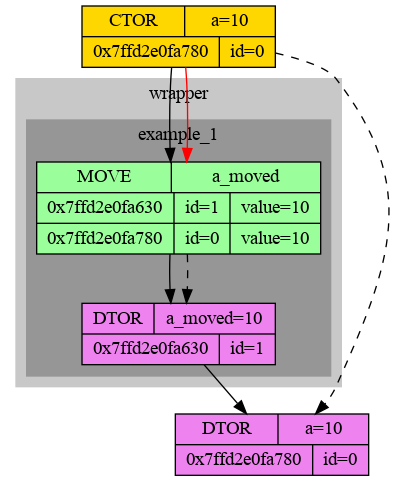
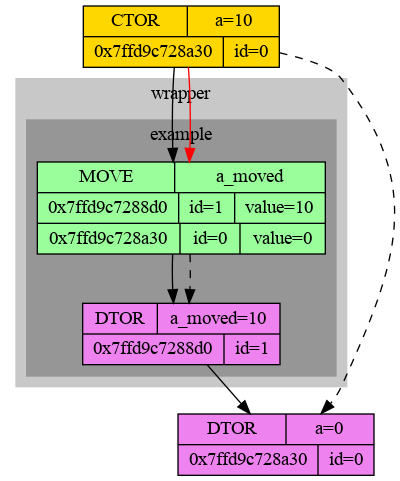
Fixed readme

diff --git a/Move&forward_research/dump.html b/Move&forward_research/dump.html
@@ -9,41 +9,27 @@ P {
 
 <p><font size="3" color="gold">[Calling_trace] CTOR Int::Int(int, std::string)
 </font>
-	<font size="3" color="gold">└──>[0x7ffdaa30fca0]: id = 0, a=10
+	<font size="3" color="gold">└──>[0x7ffd9c728a30]: id = 0, a=10
 </font>
 <font size="3" color="gold">
 </font>
-<font size="3" color="red">[Calling_trace] COPY Int::Int(const Int&)
+<font size="3" color="green">[Calling_trace] MOVE Int::Int(Int&&)
 </font>
-	<font size="3" color="red">└──>[0x7ffdaa30fbd0]: left  id = 1, a_copied=10
+	<font size="3" color="green">└──>[0x7ffd9c7288d0]: left  id = 1, a_moved=10
 </font>
-	<font size="3" color="red">└──>[0x7ffdaa30fca0]: right id = 0, a=10
+	<font size="3" color="green">└──>[0x7ffd9c728a30]: right id = 0, a=0
 </font>
-<font size="3" color="red">
-</font>
-<font size="3" color="red">[Calling_trace] COPY Int::Int(const Int&)
-</font>
-	<font size="3" color="red">└──>[0x7ffdaa30fb00]: left  id = 2, a_copied_copied=10
-</font>
-	<font size="3" color="red">└──>[0x7ffdaa30fbd0]: right id = 1, a_copied=10
-</font>
-<font size="3" color="red">
+<font size="3" color="green">
 </font>
 <font size="3" color="purple">[Calling_trace] DTOR Int::~Int()
 </font>
-	<font size="3" color="purple">└──>[0x7ffdaa30fb00]: id = 2, a_copied_copied=10
+	<font size="3" color="purple">└──>[0x7ffd9c7288d0]: id = 1, a_moved=10
 </font>
 <font size="3" color="purple">
 </font>
 <font size="3" color="purple">[Calling_trace] DTOR Int::~Int()
 </font>
-	<font size="3" color="purple">└──>[0x7ffdaa30fbd0]: id = 1, a_copied=10
-</font>
-<font size="3" color="purple">
-</font>
-<font size="3" color="purple">[Calling_trace] DTOR Int::~Int()
-</font>
-	<font size="3" color="purple">└──>[0x7ffdaa30fca0]: id = 0, a=10
+	<font size="3" color="purple">└──>[0x7ffd9c728a30]: id = 0, a=0
 </font>
 <font size="3" color="purple">
 </font>

diff --git a/Move&forward_research/Tests/testing.cpp b/Move&forward_research/Tests/testing.cpp
@@ -9,19 +9,18 @@
 #define BEGIN_ANY_FUNC Function_name_sender sender(__FUNCTION__); 
 
 template<class T>
-void example_1(T arg) {
+void example(T&& arg) {
 	BEGIN_ANY_FUNC
-	volatile auto new_tmp = arg;
+	volatile auto new_tmp = my_move(arg); // my_move(arg)
 }
 
 template<class T>
 void wrapper(T&& arg) {
 	BEGIN_ANY_FUNC
-	printf("a = %d\n", arg.get_value());
-	example_1(arg);
-	printf("a = %d\n", arg.get_value());
+	example(arg);
 }
 
 void testing() {
-	wrapper(Int(10, "a"));
-} 
+	VAR(Int, a, 10);
+	wrapper(a);
+}
